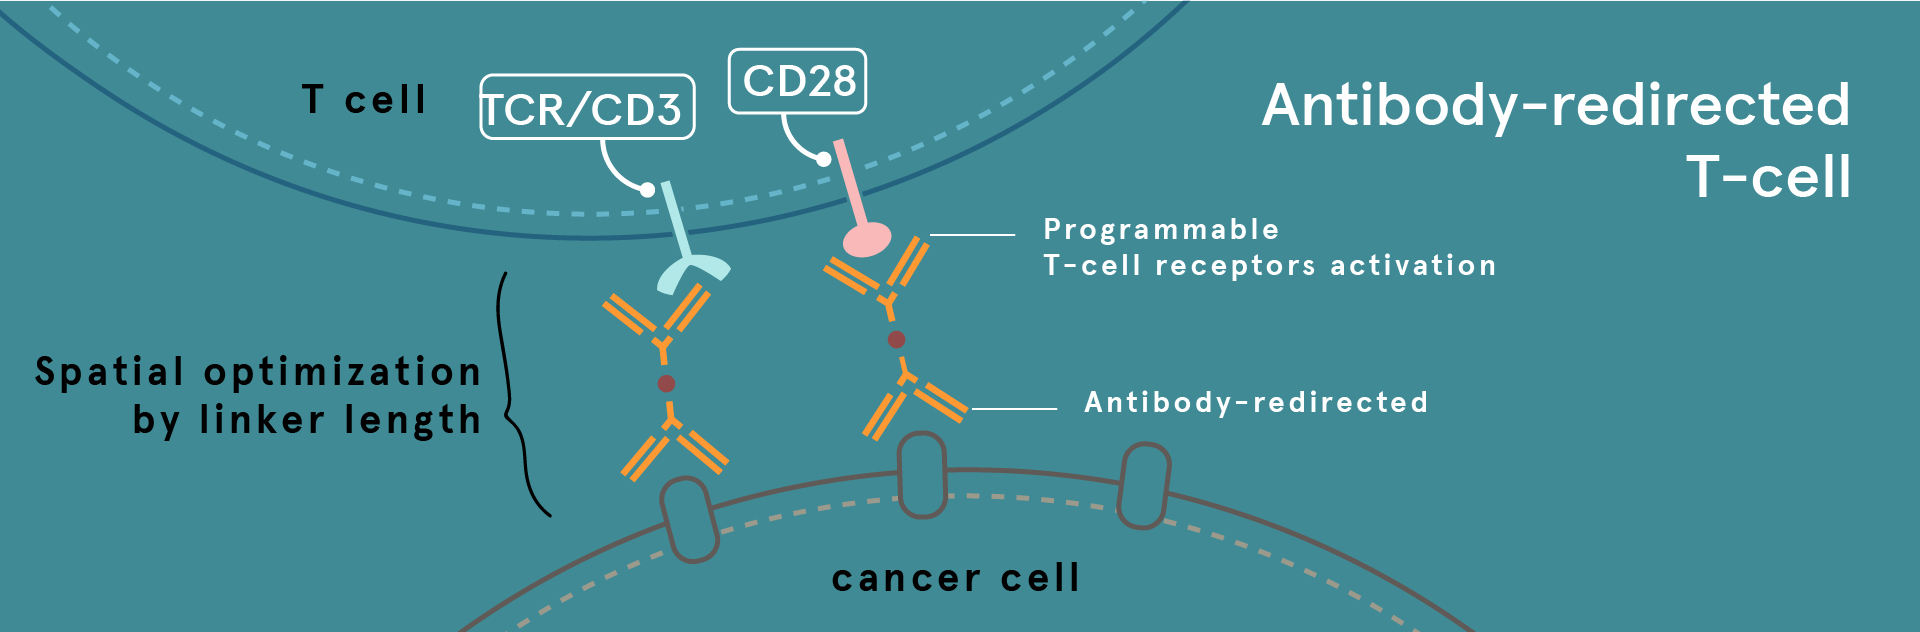
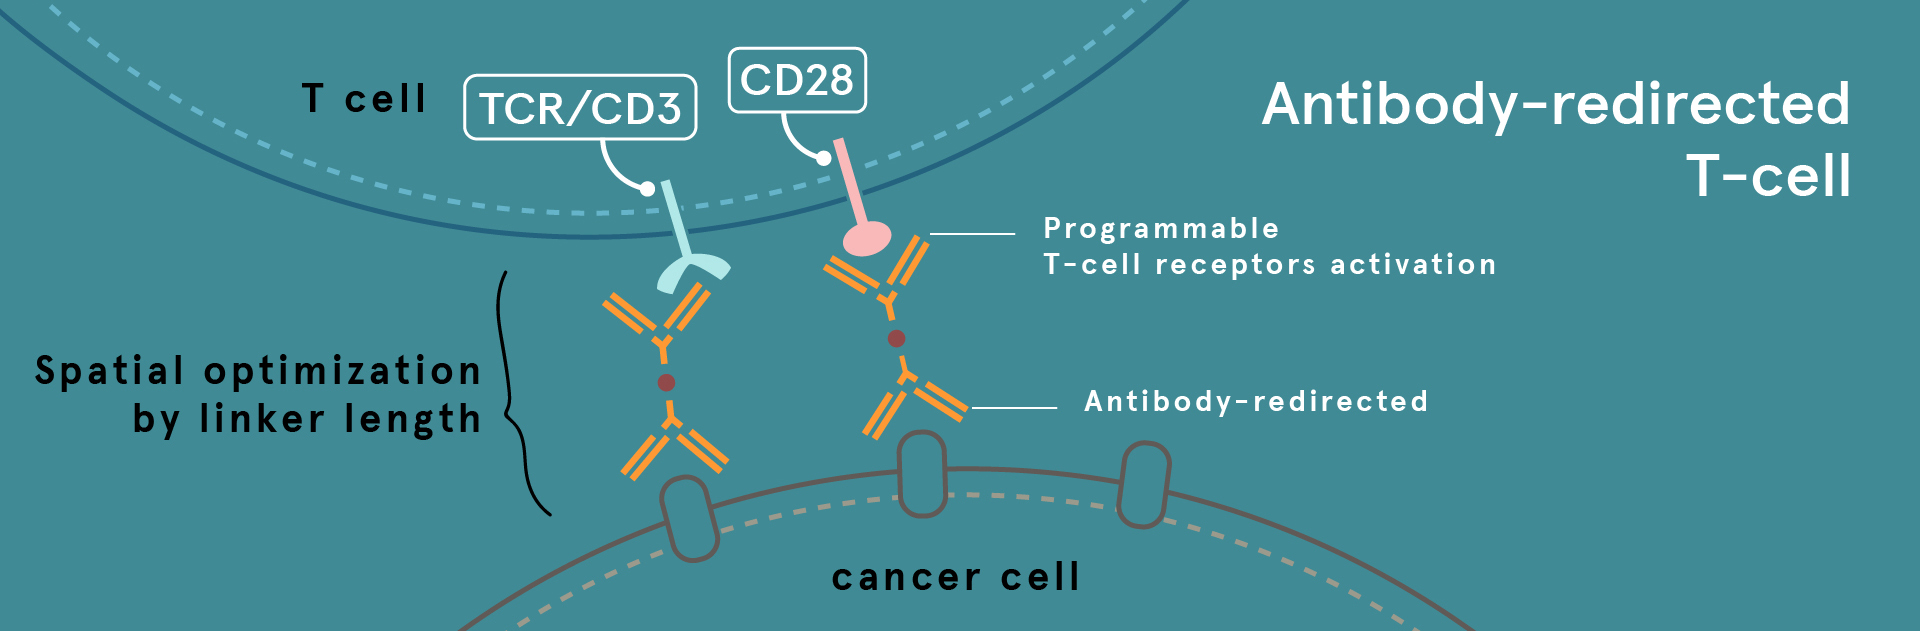
修正圖片問題、幫圖片load url加上timestamp
1.圖3的上面出現白線、TCR/CD3文字出框
2.幫非logo之圖片(包含banner)之load url加上timestamp，避免未來快取的問題

diff --git a/index.html b/index.html
@@ -314,7 +314,7 @@
         /*header*/
 
         #main_sec{
-            background-image: url("./assets/home_main_size-min2-back.jpg");
+            background-image: url("./assets/home_main_size-min2-back.jpg?v=201712261720");
             background-size: cover;
             background-position: center;
             height: 75vh;
@@ -678,9 +678,9 @@
     <section class="sec tech_intro" id="Technology1">
         <article class="content">
             <h1 class="title">For Antibody Drug Conjugations (ADCs)</h1>
-            <img class="pictrue" src="./assets/1_Site-Specific Modification_and_Conjugation_Apercu_Pro.jpg" alt="">
+            <img class="pictrue" src="./assets/1_Site-Specific Modification_and_Conjugation_Apercu_Pro.jpg?v=201712261720" alt="">
             <p>Orion’s new generation site-specific ADC technology produce stable ADCs by linking the payloads to single pre-modified site of an IgG. All IgGs can be constructed to ADCs within 3 days without the need of antibody genetic engineering. The obtained ADCs can be used readily for functional evaluation including specificity, binding affinity, internalization, in vitro cell cytotoxicity and in vivo assays. The ideal model of ADCs construction boosts more stable new generation ADCs.</p>
-            <img class="pictrue" src="./assets/2_Functional_Conjugates_Apercu_Pro.jpg" alt="">
+            <img class="pictrue" src="./assets/2_Functional_Conjugates_Apercu_Pro.jpg?v=201712261720" alt="">
             <p>Our conjugation technology enables various functional ADCs developed for clinical and commercial use. Any kind of payloads, linkers, and antibodies correspond to your purposes. </p>
         </article>
     </section>
@@ -688,10 +688,10 @@
         <article class="content">
             <h1 class="title">For Cellular Immunotherapies</h1>
             
-            <img class="pictrue" src="./assets/3_Antibody-redirected_T-cell_Apercu_Pro.jpg" alt="">
+            <img class="pictrue" src="./assets/3_Antibody-redirected_T-cell_Apercu_Pro.jpg?v=201712261720" alt="">
             <p>To treat both liquid and solid tumors with potential “living drugs”, one of Orion’s strategies focus on antibody-redirected immune cell therapy. Antibody-redirected T cell comprised of cytotoxic T-cells and bridged antibodies. One end of the bridged molecules target the tumor cells, the other end engage the T-cells and trigger downstream cell killing pathways. T-cells can be readily used without genetic engineering, which makes all existing antibodies transformed into cell immunotherapies seamlessly.</p>
 
-            <img class="pictrue" src="./assets/4_Targeted_Universal_Immune_Cells_Apercu_Pro.jpg" alt="">
+            <img class="pictrue" src="./assets/4_Targeted_Universal_Immune_Cells_Apercu_Pro.jpg?v=201712261720" alt="">
             <p>We utilizes facile and innovative method to conjugate antibodies to universal T-cells. It provides better quality control via uniform cell manufacturing. This technology could also applied on alternative effector cells such as macrophages and NK cells for different targeted disease. Off-the-shelf cell immunotherapy can tackle the drug pricing challenge, make cell immunotherapy be truly affordable and accessible in the future. </p>
 
         </article>
@@ -736,8 +736,8 @@
     <section class="sec" id="Collaborations">
         <h2 class="title">Collaborations</h2>
         <div id="img_list">
-            <img class="all_gray" src="./assets/Collaborations_NTU-size-min2.png" alt="國立台灣大學">
-            <img class="all_gray" id="NTU_IIC" src="./assets/Collaborations_NTU_IIC_size-min2.png" alt="國立台灣大學創新育成中心">
+            <img class="all_gray" src="./assets/Collaborations_NTU-size-min2.png?v=201712261720" alt="國立台灣大學">
+            <img class="all_gray" id="NTU_IIC" src="./assets/Collaborations_NTU_IIC_size-min2.png?v=201712261720" alt="國立台灣大學創新育成中心">
             
         </div>
     </section>
